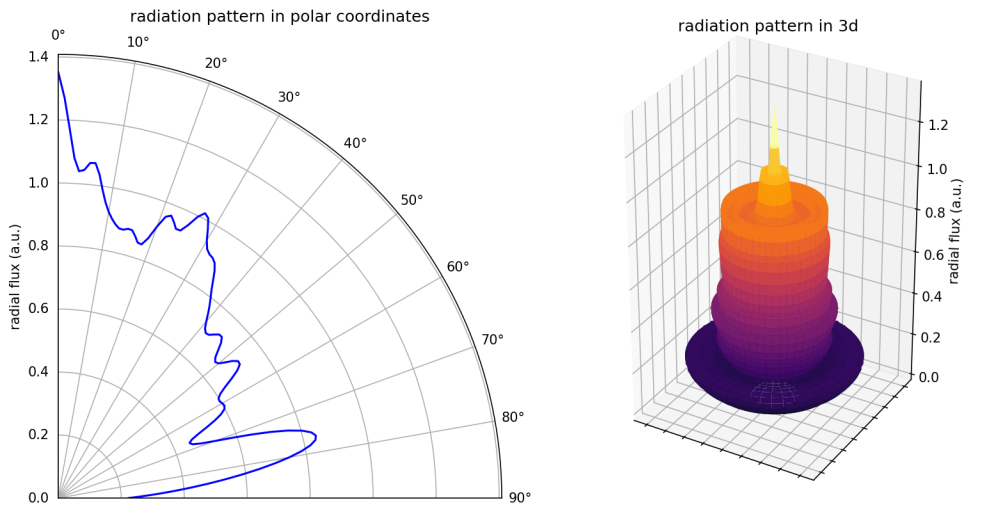
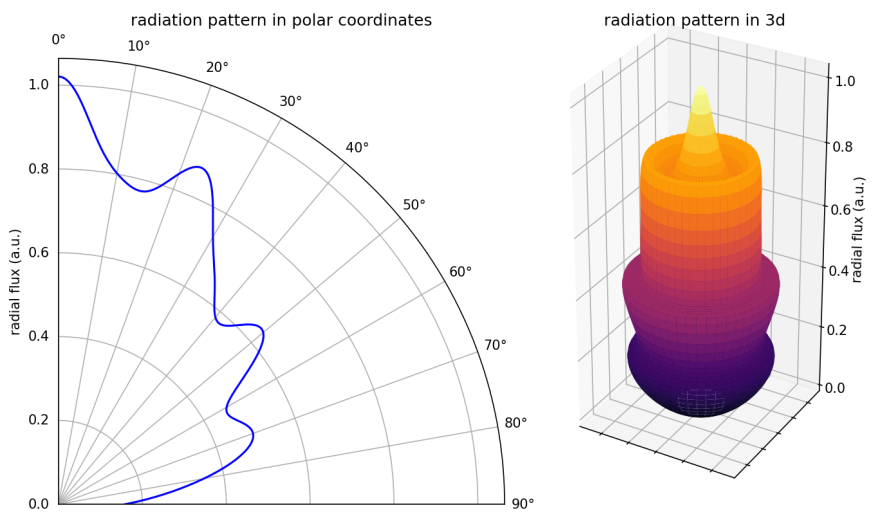
add force_complex_fields=True to Simulation constructor and update results

diff --git a/python/examples/disc_extraction_efficiency.py b/python/examples/disc_extraction_efficiency.py
@@ -155,7 +155,7 @@ def dipole_in_disc(zpos: float, rpos_um: float, m: int) -> Tuple[float, np.ndarr
     """
     pml_um = 1.0  # thickness of PML
     padding_um = 1.0  # thickness of air padding above disc
-    r_um = 5.0  # length of cell in r
+    r_um = 4.0  # length of cell in r
 
     frequency = 1 / WAVELENGTH_UM  # center frequency of source/monitor
 
@@ -175,7 +175,7 @@ def dipole_in_disc(zpos: float, rpos_um: float, m: int) -> Tuple[float, np.ndarr
     src_pt = mp.Vector3(rpos_um, 0, -0.5 * size_z + zpos * DISC_THICKNESS_UM)
     sources = [
         mp.Source(
-            src=mp.GaussianSource(frequency, fwidth=0.1 * frequency),
+            src=mp.GaussianSource(frequency, fwidth=0.05 * frequency),
             component=src_cmpt,
             center=src_pt,
         )
@@ -199,6 +199,7 @@ def dipole_in_disc(zpos: float, rpos_um: float, m: int) -> Tuple[float, np.ndarr
         boundary_layers=boundary_layers,
         sources=sources,
         geometry=geometry,
+        force_complex_fields=True,
     )
 
     n2f_mon = sim.add_near2far(
@@ -267,16 +268,16 @@ if __name__ == "__main__":
 
     for rpos_um in dipole_rpos_um[1:]:
         dipole_flux_total = 0
-        dipole_radiation_pattern_total = np.zeros((NUM_FARFIELD_PTS,))
+        dipole_radiation_pattern_total = np.zeros(NUM_FARFIELD_PTS)
         dipole_radiation_pattern_flux_max = 0
         m = 0
         while True:
             dipole_flux, dipole_radiation_pattern = dipole_in_disc(
                 dipole_height, rpos_um, m
             )
-            dipole_flux_total += dipole_flux * (2 if m == 0 else 1)
+            dipole_flux_total += dipole_flux * (1 if m == 0 else 2)
             dipole_radiation_pattern_total += dipole_radiation_pattern * (
-                2 if m == 0 else 1
+                1 if m == 0 else 2
             )
 
             dipole_radiation_pattern_flux = radiation_pattern_flux(
@@ -298,10 +299,15 @@ if __name__ == "__main__":
             else:
                 m += 1
 
-        scale_factor = (dipole_rpos_um[0] / rpos_um) ** 2
-        flux_total += dipole_flux_total * scale_factor * rpos_um * delta_rpos_um
+        dipole_position_scale_factor = 0.5 * (dipole_rpos_um[0] / rpos_um) ** 2
+        flux_total += (
+            dipole_flux_total * dipole_position_scale_factor * rpos_um * delta_rpos_um
+        )
         radiation_pattern_total += (
-            dipole_radiation_pattern_total * scale_factor * rpos_um * delta_rpos_um
+            dipole_radiation_pattern_total
+            * dipole_position_scale_factor
+            * rpos_um
+            * delta_rpos_um
         )
 
     flux_total /= NUM_DIPOLES

diff --git a/doc/docs/Python_Tutorials/Near_to_Far_Field_Spectra.md b/doc/docs/Python_Tutorials/Near_to_Far_Field_Spectra.md
@@ -658,15 +658,15 @@ if __name__ == "__main__":
 
 ### Extraction Efficiency of a Collection of Dipoles in a Disc
 
-[Tutorial/Radiation Pattern of a Disc in Cylindrical Coordinates](Near_to_Far_Field_Spectra.md#radiation-pattern-of-a-disc-in-cylindrical-coordinates) demonstrated the procedure for computing the radiation pattern of a *single* dipole (actually a "ring" current source with angular dependence $exp(im\phi)$). [Tutorial/Nonaxisymmetric Dipole Sources](Cylindrical_Coordinates.md#nonaxisymmetric-dipole-sources) described the method for modeling a point dipole at $r > 0$ in cylindrical coordinates using a Fourier-series expansion of the fields in $\phi$. [Tutorial/Extraction Efficiency of a Light-Emitting Diode](Local_Density_of_States.md#extraction-efficiency-of-a-light-emitting-diode-led) described the procedure for computing the extraction efficiency of a dipole at $r = 0$. These three results can be combined to compute the extraction efficiency for a point dipole *anywhere* in the cylindrical cell. Computing the extraction efficiency of an actual light-emitting diode (LED), however, involves a collection of spatially incoherent dipole emitters. [Tutorial/Stochastic Dipole Emission in Light Emitting Diodes](Custom_Source.md#stochastic-dipole-emission-in-light-emitting-diodes) described a method for computing the emission of a collection of dipoles using a series of single-dipole calculations and averaging the emission profiles in post processing. The example used a 2D simulation involving a 1D binary grating (or photonic crystal). This tutorial demonstrates how this approach for modeling spatially incoherent dipoles can be extended to cylindrical coordinates for structures with rotational symmetry.
+[Tutorial/Radiation Pattern of a Disc in Cylindrical Coordinates](Near_to_Far_Field_Spectra.md#radiation-pattern-of-a-disc-in-cylindrical-coordinates) demonstrated the procedure for computing the radiation pattern of a *single* dipole (actually a "ring" current source with angular dependence $exp(im\phi)$). [Tutorial/Nonaxisymmetric Dipole Sources](Cylindrical_Coordinates.md#nonaxisymmetric-dipole-sources) described the method for modeling a point dipole at $r > 0$ in cylindrical coordinates using a Fourier-series expansion of the fields in $\phi$. [Tutorial/Extraction Efficiency of a Light-Emitting Diode](Local_Density_of_States.md#extraction-efficiency-of-a-light-emitting-diode-led) described the procedure for computing the extraction efficiency of a dipole at $r = 0$. These three demonstrations can be combined to compute the extraction efficiency for a point dipole *anywhere* in the cylindrical cell. Computing the extraction efficiency of an actual light-emitting diode (LED), however, involves a collection of spatially incoherent dipole emitters. [Tutorial/Stochastic Dipole Emission in Light Emitting Diodes](Custom_Source.md#stochastic-dipole-emission-in-light-emitting-diodes) described a method for computing the emission of a collection of dipoles using a series of single-dipole calculations and then averaging the emission profiles in post processing. The example used a 2D simulation involving a 1D binary grating (or photonic crystal). This tutorial demonstrates how this approach for modeling spatially incoherent dipoles can be extended to cylindrical coordinates for structures with rotational symmetry.
 
 The example uses the same setup as the [previous tutorial](#radiation-pattern-of-a-disc-in-cylindrical-coordinates) involving a dielectric disc above a lossless-reflector ground plane. The dipoles are arranged on a line extending from $r = 0$ to $r = R$ where $R$ is the disc radius. The height of the dipoles ($z$ coordinate) within the disc is fixed. The radiation pattern $P(r,\theta)$ for a dipole at $r$ is computed using a Fourier-series expansion in $\phi$. The *total* radiation pattern $P(\theta)$ for $N$ dipoles with equal spacing $\Delta r$ is the average of the per-dipole results:
 
 $$P(\theta) = \frac{1}{R} \int_0^R P(r,\theta) s(r) 2\pi rdr = \frac{1}{N} \sum_{n=0}^{N-1} P(r_n,\theta) s(r_n) 2\pi r_n \Delta r$$,
 
-where $s(r)$ is a weighting function necessary for ensuring equal contribution from all dipoles relative to the dipole at $r = 0$. Note: an $E_r$ dipole at $r = 0$ must be placed at $r_0 = 1.5\Delta r$ due to an [interpolation bug](https://github.com/NanoComp/meep/issues/2704). $s(r)$ can be determined empirically by computing the emission in vacuum for a set of dipoles at different radial positions. The emission profile of a dipole in vacuum is a constant independent of its position. This criteria is used to obtain: $s(r) = (r_0/r)^2$. This weighting function is also used to average the flux emitted by each dipole (obtained using using the LDOS feature). This quantity is the denominator in the expression for the extraction efficiency.
+where $s(r)$ is a weighting function necessary for ensuring equal contribution from all dipoles relative to the dipole at $r = 0$. Note: an $E_r$ dipole at $r = 0$ must be placed at $r_0 = 1.5\Delta r$ due to an [interpolation bug](https://github.com/NanoComp/meep/issues/2704). $s(r)$ can be determined empirically by computing the emission in vacuum for a set of dipoles at different radial positions. The emission profile of a dipole in vacuum is a constant independent of its position. This criteria is used to obtain $s(r) = 0.5(r_0/r)^2$. This weighting function is also used to average the flux emitted by each dipole (obtained using using the LDOS feature). This quantity is the denominator in the expression for the extraction efficiency.
 
-This figure shows the radiation pattern from $N=11$ dipoles with $\lambda$ of 1.0 $\mu$m in the middle of a disc of height 0.29 $\mu$m, radius 1.2 $\mu$m, and refractive index 2.4.
+This figure shows the radiation pattern from $N=11$ dipoles with $\lambda$ of 1.0 $\mu$m in the middle of a disc of height 0.29 $\mu$m, radius 1.2 $\mu$m, and refractive index 2.4. The extraction efficiency for this setup is 0.933517. The runtime is about two hours using two Intel 4.2 GHz Xeon cores.
 
 ![](../images/disc_dipoles_radiation_pattern.png#center)
 
@@ -812,9 +812,7 @@ def radiation_pattern_flux(radial_flux: np.ndarray) -> float:
     return total_flux
 
 
-def dipole_in_disc(
-        zpos: float, rpos_um: float, m: int
-) -> Tuple[float, np.ndarray]:
+def dipole_in_disc(zpos: float, rpos_um: float, m: int) -> Tuple[float, np.ndarray]:
     """Computes the total flux and radiation pattern of a dipole in a disc.
 
     Args:
@@ -827,7 +825,7 @@ def dipole_in_disc(
     """
     pml_um = 1.0  # thickness of PML
     padding_um = 1.0  # thickness of air padding above disc
-    r_um = 5.0  # length of cell in r
+    r_um = 4.0  # length of cell in r
 
     frequency = 1 / WAVELENGTH_UM  # center frequency of source/monitor
 
@@ -847,7 +845,7 @@ def dipole_in_disc(
     src_pt = mp.Vector3(rpos_um, 0, -0.5 * size_z + zpos * DISC_THICKNESS_UM)
     sources = [
         mp.Source(
-            src=mp.GaussianSource(frequency, fwidth=0.1 * frequency),
+            src=mp.GaussianSource(frequency, fwidth=0.05 * frequency),
             component=src_cmpt,
             center=src_pt,
         )
@@ -856,7 +854,9 @@ def dipole_in_disc(
     geometry = [
         mp.Block(
             material=mp.Medium(index=N_DISC),
-            center=mp.Vector3(0.5 * DISC_RADIUS_UM, 0, -0.5 * size_z + 0.5 * DISC_THICKNESS_UM),
+            center=mp.Vector3(
+                0.5 * DISC_RADIUS_UM, 0, -0.5 * size_z + 0.5 * DISC_THICKNESS_UM
+            ),
             size=mp.Vector3(DISC_RADIUS_UM, mp.inf, DISC_THICKNESS_UM),
         )
     ]
@@ -869,6 +869,7 @@ def dipole_in_disc(
         boundary_layers=boundary_layers,
         sources=sources,
         geometry=geometry,
+        force_complex_fields=True
     )
 
     n2f_mon = sim.add_near2far(
@@ -937,40 +938,45 @@ if __name__ == "__main__":
 
     for rpos_um in dipole_rpos_um[1:]:
         dipole_flux_total = 0
-        dipole_radiation_pattern_total = np.zeros((NUM_FARFIELD_PTS,))
+        dipole_radiation_pattern_total = np.zeros(NUM_FARFIELD_PTS)
         dipole_radiation_pattern_flux_max = 0
         m = 0
         while True:
             dipole_flux, dipole_radiation_pattern = dipole_in_disc(
                 dipole_height, rpos_um, m
             )
-            dipole_flux_total += dipole_flux * (2 if m == 0 else 1)
+            dipole_flux_total += dipole_flux * (1 if m == 0 else 2)
             dipole_radiation_pattern_total += dipole_radiation_pattern * (
-                2 if m == 0 else 1
+                1 if m == 0 else 2
             )
 
             dipole_radiation_pattern_flux = radiation_pattern_flux(
                 dipole_radiation_pattern
             )
             print(
-                f"dipole:, {rpos_um:.4f}, {m}, "
-                f"{dipole_radiation_pattern_flux:.6f}"
+                f"dipole:, {rpos_um:.4f}, {m}, " f"{dipole_radiation_pattern_flux:.6f}"
             )
 
             if dipole_radiation_pattern_flux > dipole_radiation_pattern_flux_max:
                 dipole_radiation_pattern_flux_max = dipole_radiation_pattern_flux
 
-            if (m > 0 and
-                (dipole_radiation_pattern_flux /
-                 dipole_radiation_pattern_flux_max) < flux_decay_threshold):
+            if (
+                m > 0
+                and (dipole_radiation_pattern_flux / dipole_radiation_pattern_flux_max)
+                < flux_decay_threshold
+            ):
                 break
             else:
                 m += 1
 
-        scale_factor = (dipole_rpos_um[0] / rpos_um) ** 2
-        flux_total += dipole_flux_total * scale_factor * rpos_um * delta_rpos_um
+        dipole_position_scale_factor = 0.5 * (dipole_rpos_um[0] / rpos_um) ** 2
+        flux_total += (
+            dipole_flux_total * dipole_position_scale_factor *
+            rpos_um * delta_rpos_um
+        )
         radiation_pattern_total += (
-            dipole_radiation_pattern_total * scale_factor * rpos_um * delta_rpos_um
+            dipole_radiation_pattern_total * dipole_position_scale_factor *
+            rpos_um * delta_rpos_um
         )
 
     flux_total /= NUM_DIPOLES
